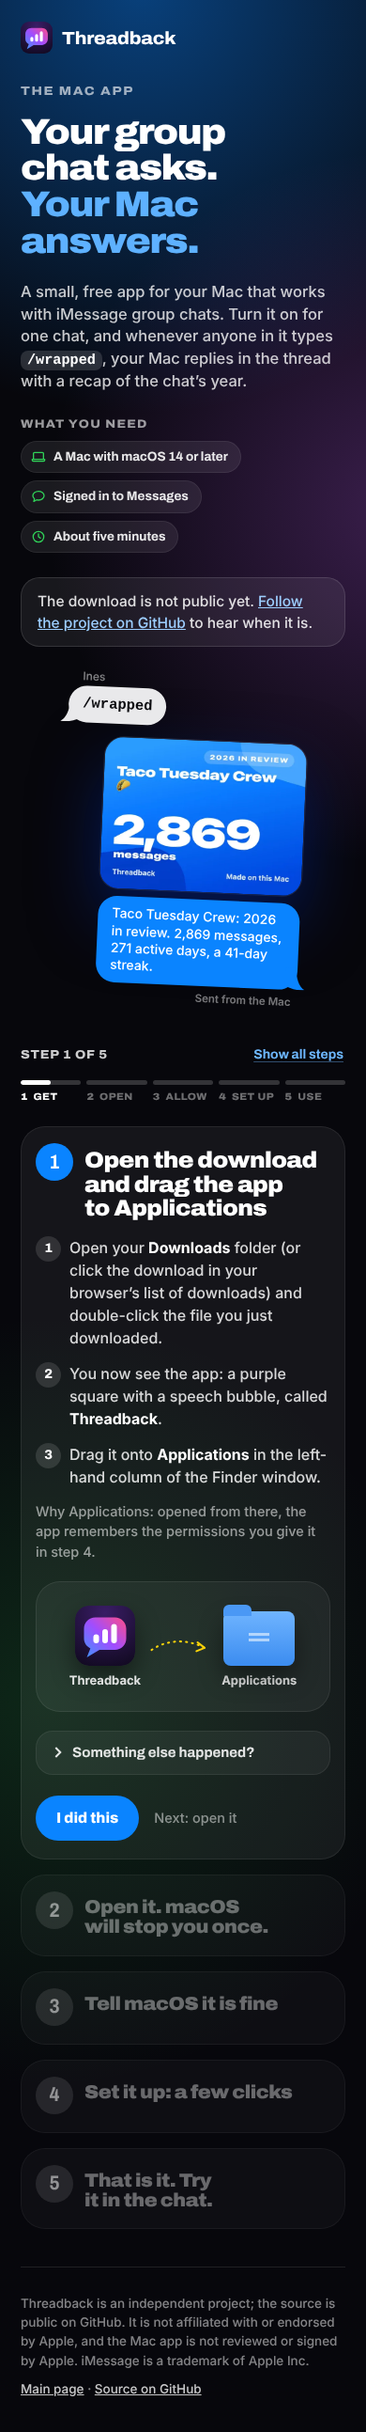
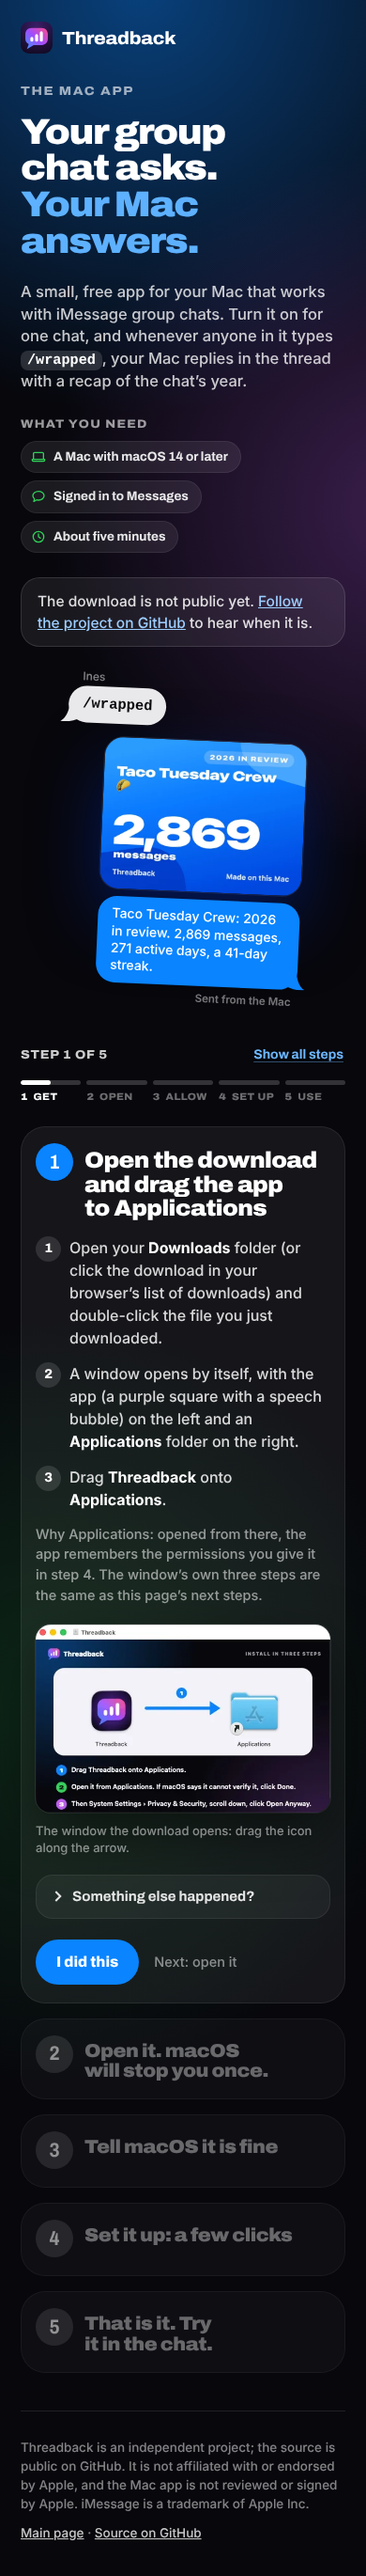
Mac page step 1: the real window the disk image opens; copy follows the app's Dock and Turn off
The app now ships as a disk image whose window shows the app next to an
Applications shortcut, keeps a Dock icon while its window is open, and has
Turn off / Quit in the window it shows when opened again. Step 1 shows that
window instead of a drawing; the zip and the mounted disk move to the
step's problems list; how to turn it off now names the app's own window.

Claude-Session: https://claude.ai/code/session_01HsT3WJgxawzje31yUV686t

Changed region(s): [[0.0615, 0.0, 0.9538, 0.9896]]

diff --git a/web/mac/index.html b/web/mac/index.html
@@ -124,15 +124,14 @@
           <div class="mg-split__text">
             <ol class="mg-list">
               <li>Open your <b>Downloads</b> folder (or click the download in your browser’s list of downloads) and double-click the file you just downloaded.</li>
-              <li>You now see the app: a purple square with a speech bubble, called <b data-brand>the app</b>.</li>
-              <li>Drag it onto <b>Applications</b> in the left-hand column of the Finder window.</li>
+              <li>A window opens by itself, with the app (a purple square with a speech bubble) on the left and an <b>Applications</b> folder on the right.</li>
+              <li>Drag <b data-brand>the app</b> onto <b>Applications</b>.</li>
             </ol>
-            <p class="mg-why">Why Applications: opened from there, the app remembers the permissions you give it in step 4.</p>
+            <p class="mg-why">Why Applications: opened from there, the app remembers the permissions you give it in step 4. The window’s own three steps are the same as this page’s next steps.</p>
           </div>
-          <figure class="mg-drag" aria-label="Drag the app icon onto the Applications folder">
-            <span class="mg-drag__app"><img src="../assets/favicon.svg" alt="" width="64" height="64"><span data-brand>the app</span></span>
-            <svg class="mg-drag__arrow" viewBox="0 0 120 40" aria-hidden="true"><path fill="none" stroke="currentColor" stroke-width="3.500" stroke-linecap="round" stroke-dasharray="2 9" d="M6 26C34 6 74 6 102 22"/><path fill="none" stroke="currentColor" stroke-width="3.500" stroke-linecap="round" stroke-linejoin="round" d="m90 12 13 10-15 6"/></svg>
-            <span class="mg-drag__folder"><i aria-hidden="true"></i><span>Applications</span></span>
+          <figure class="mg-reply mg-reply--dmg">
+            <img src="img/download-window.webp" alt="The window that opens from the download: the app's icon, an arrow, and the Applications folder, with three numbered install steps." width="580" height="370" loading="lazy">
+            <figcaption>The window the download opens: drag the icon along the arrow.</figcaption>
           </figure>
         </div>
         <details class="mg-more">
@@ -140,10 +139,10 @@
           <dl class="mg-faq">
             <dt>The browser asks whether to allow downloads from this site.</dt>
             <dd>Click <b>Allow</b>, then click <b>Download for Mac</b> again.</dd>
-            <dt>I see a zip file, or a second zip inside the first.</dt>
-            <dd>Double-click each zip until the app’s icon appears. The zip files can go in the Trash afterwards.</dd>
-            <dt>I cannot see Applications.</dt>
-            <dd>In Finder, open the <b>Go</b> menu at the top of the screen and choose <b>Applications</b>. Drag the app into that window.</dd>
+            <dt>I got a zip file instead, or no window opened.</dt>
+            <dd>Double-click the zip until the app’s icon appears. Then, in Finder, open the <b>Go</b> menu at the top of the screen, choose <b>Applications</b>, and drag the app into that window.</dd>
+            <dt>Afterwards there is a disk named after the app in Finder’s sidebar.</dt>
+            <dd>That is the download, opened. Once the app is in Applications, click the eject arrow next to it. The downloaded file can go in the Trash.</dd>
           </dl>
         </details>
         <div class="mg-step__foot">
@@ -190,7 +189,7 @@
             <dt>It says <q data-macos="damaged">“the app” is damaged and can’t be opened. You should move it to the Trash.</q></dt>
             <dd>That message has no way past it: the copy you have was broken on the way. Move it to the Trash, download it again from this page and drag the new copy to Applications. If the new copy says the same, please tell us on <a href="https://github.com/averyhsu/imessage-wrap" data-source rel="noopener">GitHub</a>.</dd>
             <dt>Nothing appeared at all.</dt>
-            <dd>The app may already be open: it has no icon in the Dock, only a speech bubble in the menu bar at the top right of the screen. If its setup window is showing, skip to step 4.</dd>
+            <dd>The app may already be open: look for its icon in the Dock, or a speech bubble in the menu bar at the top right of the screen. If its setup window is showing, skip to step 4.</dd>
             <dt>I clicked <span data-macos="moveToTrash">Move to Trash</span> by mistake.</dt>
             <dd>No harm done. Download it again and start from step 1.</dd>
           </dl>
@@ -357,7 +356,7 @@
           </li>
           <li>
             <h3>How to turn it off</h3>
-            <p>Click the speech-bubble icon in the menu bar at the top of the screen and choose <b>Quit <span data-brand>the app</span></b>. To remove it for good, also move it from Applications to the Trash.</p>
+            <p>Open <span data-brand>the app</span> again from Applications: its window has <b>Turn off</b> and <b>Quit <span data-brand>the app</span></b>. To remove it for good, quit it and move it from Applications to the Trash.</p>
           </li>
           <li class="mg-facts__wide">
             <h3>What never leaves this Mac</h3>

diff --git a/web/mac/mac.css b/web/mac/mac.css
@@ -592,69 +592,9 @@ html.mg-all .mg-step .mg-step__body { animation: none; }
 .mg-btn--small { min-height: 40px; padding: 0 16px; font-size: 14px; }
 .mg-btn .mg-ico { font-size: 1.2em; }
 
-/* ── step 1: the drag ── */
+/* ── step 1: the window the download opens ── */
 
-.mg-drag {
-  display: flex;
-  align-items: center;
-  justify-content: center;
-  gap: 8px;
-  padding: 26px 18px;
-  border-radius: 26px;
-  background: rgba(255, 255, 255, 0.05);
-  box-shadow: inset 0 0 0 1px rgba(255, 255, 255, 0.08);
-}
-
-.mg-drag__app,
-.mg-drag__folder {
-  display: flex;
-  flex-direction: column;
-  align-items: center;
-  gap: 8px;
-  font: 700 13px/1.2 var(--font-text);
-  color: rgba(255, 255, 255, 0.86);
-  text-align: center;
-}
-
-.mg-drag__app > img { width: 64px; height: 64px; border-radius: 15px; box-shadow: 0 12px 26px rgba(0, 0, 0, 0.45); }
-
-.mg-drag__arrow { width: clamp(70px, 12vw, 120px); height: auto; color: var(--yellow); flex: none; }
-
-/* A plain folder shape, drawn here. */
-.mg-drag__folder > i {
-  position: relative;
-  display: block;
-  width: 76px;
-  height: 58px;
-  margin-top: 6px;
-  border-radius: 8px;
-  background: linear-gradient(#6fb4ff, #3b8cf0);
-  box-shadow: 0 12px 26px rgba(0, 0, 0, 0.4);
-}
-
-.mg-drag__folder > i::before {
-  content: "";
-  position: absolute;
-  left: 0;
-  top: -7px;
-  width: 30px;
-  height: 12px;
-  border-radius: 6px 6px 0 0;
-  background: #4a98f5;
-}
-
-.mg-drag__folder > i::after {
-  content: "";
-  position: absolute;
-  left: 50%;
-  top: 50%;
-  width: 22px;
-  height: 22px;
-  margin: -6px 0 0 -11px;
-  border-top: 3px solid rgba(255, 255, 255, 0.55);
-  border-bottom: 3px solid rgba(255, 255, 255, 0.55);
-  height: 9px;
-}
+.mg-reply--dmg { align-self: center; }
 
 /* ── the two drawings of macOS moments ── */
 
